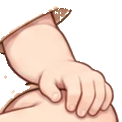
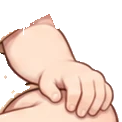
퀴즈나라: 양반다리 정면 검은 줄 제거
- 셔츠 밑단 모서리 선: 원화 정면에서 다리 피부 층을 셔츠 위에 둔다
  (반바지 층 < 셔츠 < 다리 피부).
- 소매 옆 어두운 조각: 손·아래팔 그림에서 원화 소매 끝 테두리를 뺀다.

Claude-Session: https://claude.ai/code/session_01TorvBRE4tH5a5MfFk5YraQ

Changed region(s): [[0.0738, 0.0492, 0.5902, 0.2951]]

diff --git a/퀴즈나라/avatar-foundation.js b/퀴즈나라/avatar-foundation.js
@@ -1122,7 +1122,7 @@
     // the shirt; from the side the thigh is under the shorts; from behind the
     // forearms are beyond the back panel. Climbing arms rise from the shoulders
     // over the back (their hands go behind the head, drawn above the body).
-    if(pose.floor)order=pose.back?['far-leg','near-leg','pelvis',...armKeys,'torso']:pose.profile?['far-arm','far-leg','near-leg','pelvis','torso','near-arm']:pose.seatArt?['pelvis','far-leg','near-leg','torso',...armKeys]:['pelvis','torso','far-leg','near-leg',...armKeys];
+    if(pose.floor)order=pose.back?['far-leg','near-leg','pelvis',...armKeys,'torso']:pose.profile?['far-arm','far-leg','near-leg','pelvis','torso','near-arm']:pose.seatArt?['pelvis','far-leg','torso','near-leg',...armKeys]:['pelvis','torso','far-leg','near-leg',...armKeys];
     else if(pose.back&&seated)order=['far-arm','near-arm','far-leg','near-leg','pelvis','torso'];
     else if(pose.action==='climb')order=['far-leg','near-leg','pelvis','torso',...armKeys];
     else if(seated&&pose.profile)order=['far-arm','far-leg','near-leg','pelvis','torso','near-arm'];

diff --git a/퀴즈나라/배포용/avatar-foundation.js b/퀴즈나라/배포용/avatar-foundation.js
@@ -1122,7 +1122,7 @@
     // the shirt; from the side the thigh is under the shorts; from behind the
     // forearms are beyond the back panel. Climbing arms rise from the shoulders
     // over the back (their hands go behind the head, drawn above the body).
-    if(pose.floor)order=pose.back?['far-leg','near-leg','pelvis',...armKeys,'torso']:pose.profile?['far-arm','far-leg','near-leg','pelvis','torso','near-arm']:pose.seatArt?['pelvis','far-leg','near-leg','torso',...armKeys]:['pelvis','torso','far-leg','near-leg',...armKeys];
+    if(pose.floor)order=pose.back?['far-leg','near-leg','pelvis',...armKeys,'torso']:pose.profile?['far-arm','far-leg','near-leg','pelvis','torso','near-arm']:pose.seatArt?['pelvis','far-leg','torso','near-leg',...armKeys]:['pelvis','torso','far-leg','near-leg',...armKeys];
     else if(pose.back&&seated)order=['far-arm','near-arm','far-leg','near-leg','pelvis','torso'];
     else if(pose.action==='climb')order=['far-leg','near-leg','pelvis','torso',...armKeys];
     else if(seated&&pose.profile)order=['far-arm','far-leg','near-leg','pelvis','torso','near-arm'];

diff --git a/퀴즈나라/tools/seated-cut.py b/퀴즈나라/tools/seated-cut.py
@@ -110,6 +110,20 @@ def save(name,mask,box=None,src=None,alpha=None):
 # boy's sleeve).
 ARM=fg&~(mn>232)&skintone&~shirt&~denim&(rows>=C['armTop']-y0)
 ARM&=grow(shrink(ARM),1)
+# Nothing above the reference cuff's lower edge (its dark rim and shadow
+# showed beside the runtime sleeve).
+cuffC=(r>215)&(g>190)&(b>140)&(r-g<22)&(g-b>15)&(g-b<60)
+for h0,h1 in C['hands']:
+    for j in range(h0-x0,h1-x0):
+        cs=np.where(cuffC[C['armTop']-y0-20:C['cuffLine']-y0,j])[0]
+        if len(cs):ARM[:C['armTop']-y0-20+cs.max()+3,j]=False
+# The cuff's dark rim beside the forearm's top: drop dark pixels within a
+# few rows of where the forearm starts (its centre column).
+for (h0,h1),fx in zip(C['hands'],C['forearms']):
+    col=np.where(ARM[:,fx-x0])[0]
+    if not len(col):continue
+    t0=col[0];band=slice(max(0,t0-8),t0+10)
+    ARM[band,h0-x0:h1-x0]&=~(r[band,h0-x0:h1-x0]<190)
 # Keep only what connects to the hands (stray bits of the cuff's edge outline).
 keep=ARM&(rows>=C['wrist']-y0)
 while True:
